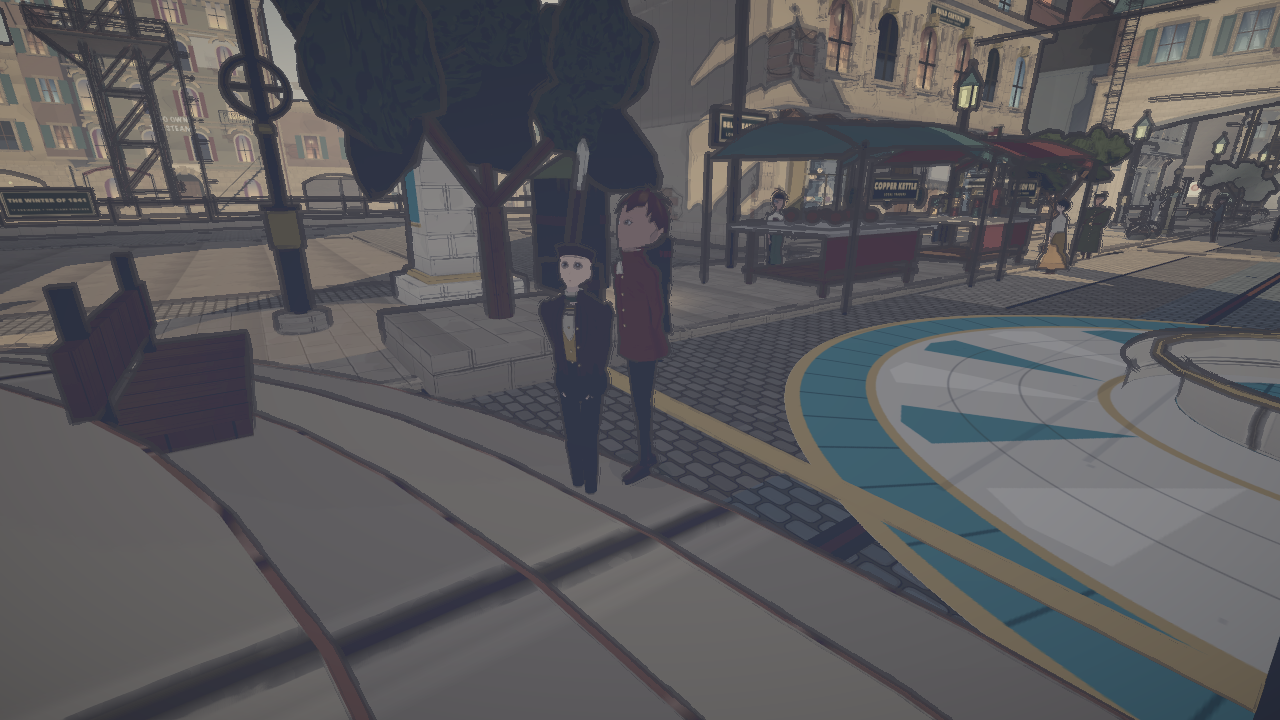
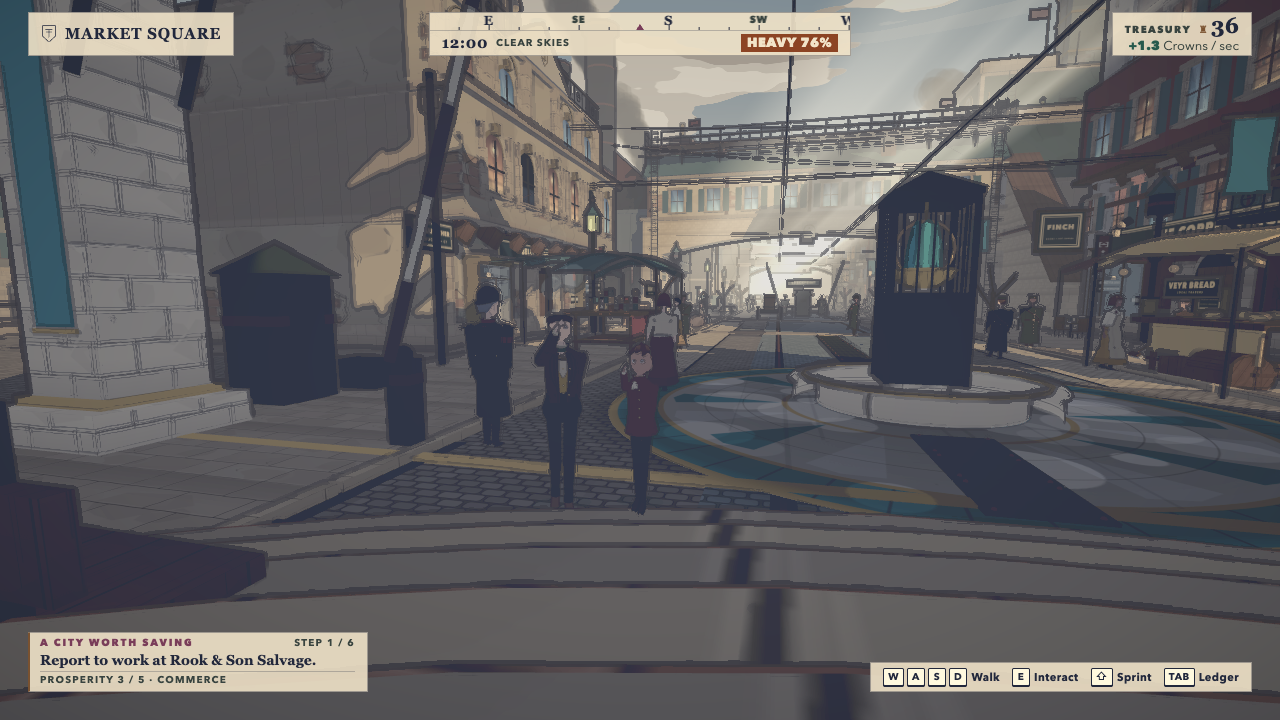
People XVI: the child is a child's size again — the child cast owns its scale in the figure builder (.72 times its stature, the crown at about 1.36 m, an adult's chest to shoulder), the spawn site scales only an old-builder child, and a test holds the spawned child's crown between .6 and .8 of an ad

diff --git a/src/world/presentation.ts b/src/world/presentation.ts
@@ -3,6 +3,7 @@ import { Atlas, place, type Placed } from './sign-atlas';
 import { box,holed,cyl,sphere,torus,beam,gear,barrel,crate,sign,arch,bake,mats,seeded,illustrated,tree,bareTree,blossom,windowUnit,printed,windowGlass,asProp } from './assets';
 import { V,pipe,cable,crest,gauge,lampHead,railing,canopy,artMats,roof,pressureRing,wingedValve,bench,pressureStation,mailPost,fabricOf,poster,meterBox,labeledCrate,stencilBarrel,stove,workbench,cafeTable,anvil,pipeStack } from './art-kit';
 import { person as makePerson, PEOPLE, type Citizen } from './citizens';
+import { siteScale } from './people/figure';
 import type { Archetype } from './palette';
 import { animateLife, turnTaking, eased, type Activity } from './citizen-life';
 import { reducedMotion } from '../motion';
@@ -493,7 +494,7 @@ export class Presentation {
   addWorker(x:number,z:number,yaw:number,kind:Activity,o:{y?:number;role?:Archetype;minStage?:number;maxStage?:number;time?:'any'|'day'|'night';scale?:number;/** a named story character (people/look.ts): takes effect under the new builder */look?:string;partner?:number;path?:[number,number,number];tool?:string;when?:()=>boolean;essential?:boolean;mask?:boolean}={}) {
     if(kind==='sit'&&o.tool==='mug')kind='eat';// whoever sits with a mug drinks from it
     const role=o.role??(kind==='gauge'||kind==='valve'||kind==='clipboard'?'engineer':kind==='browse'||(z<0&&kind==='read')?'merchant':kind==='read'||kind==='watch'||kind==='lean'?'resident':'worker');
-    const child=o.scale!==undefined&&o.scale<.8,person=makePerson(mats.rust,this.workers.length+43,role,{mask:o.mask,look:o.look,child});const y=o.y!==undefined?o.y+.18:this.city.groundHeight(x,z);person.group.position.set(x,y,z);person.group.rotation.y=yaw;if(o.scale&&!(child&&PEOPLE.next))person.group.scale.multiplyScalar(o.scale);// the child cast has its own stature: it is not an adult scaled down
+    const child=o.scale!==undefined&&o.scale<.8,person=makePerson(mats.rust,this.workers.length+43,role,{mask:o.mask,look:o.look,child});const y=o.y!==undefined?o.y+.18:this.city.groundHeight(x,z);person.group.position.set(x,y,z);person.group.rotation.y=yaw;person.group.scale.multiplyScalar(siteScale(o.scale,child,PEOPLE.next));// the old builder's child is an adult scaled down here; the new child cast owns its size
     this.root.add(person.group);
     // Held things sit in the right hand's grip socket, authored grip-first: the handle runs through
     // the fist along z and the rest hangs off it (figure-construction: arms-hands). Crates are

diff --git a/src/world/people/figure.ts b/src/world/people/figure.ts
@@ -1,6 +1,6 @@
 import * as T from 'three';
 import { loft, sweep, place, plate, offset, ringAt, surface, onFace, type Ring, type SweepPt } from './loft';
-import { dimsOf, ribcage, pelvis as pelvisRings, neck as neckRings, upperArm, forearm, thigh as thighRings, shin as shinRings, ring, RIG, type Dims } from './body';
+import { dimsOf, CHILD_SCALE, ribcage, pelvis as pelvisRings, neck as neckRings, upperArm, forearm, thigh as thighRings, shin as shinRings, ring, RIG, type Dims } from './body';
 import { paletteOf, type CastId, type Look } from './look';
 import { skull, ear, facialOf, skullRings, CHIN_TO_PIVOT } from './head';
 import { hairOf } from './hair';
@@ -23,6 +23,11 @@ export interface FigureOpts { solo?: boolean; mask?: boolean; /** dev: no hair, 
 
 /** Every cast is built: ten and the two of the Ordinance from wardrobe.ts, and the labourer and the row coat in the inline branch below. */
 export const BUILT: readonly CastId[] = ['labourer', 'rowCoat', ...WARDROBE];
+
+/** The switch (People XIV) as pure functions, used by citizens.ts and the spawn sites: the new builder unless the page's query asks for `people=old`; and the scale a spawn site applies,
+ *  which is never a second one for a child of the new builder (that figure owns its size, `CHILD_SCALE`). */
+export const peopleNext = (search: string) => new URLSearchParams(search).get('people') !== 'old';
+export const siteScale = (scale: number | undefined, child: boolean, next: boolean) => scale && !(child && next) ? scale : 1;
 
 const LIFT = .01;
 
@@ -199,7 +204,7 @@ export function buildFigure(look: Look, opts: FigureOpts, kit: Kit) {
   kit.bake(worn); kit.bake(finery);
   // the old rig lowers everything the body carries by .14 (animateLife is solved against it)
   body.position.y -= .14; pelvisG.position.y -= .14; for (const l of legs) l.position.y -= .14;
-  group.scale.setScalar(look.stature);
+  group.scale.setScalar(look.stature * (look.family === 'child' ? CHILD_SCALE : 1)); // the child owns its size (body.ts)
   group.traverse(o => { if (o instanceof T.Mesh) o.castShadow = false; });
   return { group, body, pelvis: pelvisG, legs, knees, ankles, arms, elbows, grips, head, tails, hem: hem.children.length ? hem : undefined, skirt, swing, scarf, worn, finery, face, faceMat };
 }

diff --git a/tests/stature.test.ts b/tests/stature.test.ts
@@ -1,0 +1,30 @@
+import { test } from 'node:test';
+import assert from 'node:assert/strict';
+import * as T from 'three';
+import { buildFigure, siteScale, type Kit } from '../src/world/people/figure.ts';
+import { resolveLook, type Look } from '../src/world/people/look.ts';
+
+const plain = () => new T.MeshBasicMaterial();
+const kit = (): Kit => ({ cloth: plain, plain, skin: [plain(), plain(), plain()], face: plain, bake: g => g, contact: new T.Mesh(new T.CircleGeometry(.28, 8), plain()) });
+/** The crown above the sole of a figure as the game spawns it (the spawn site's scale included), with no hair or hat: the top of its world bounding box. */
+function crown(look: Look, scale: number | undefined, child: boolean) {
+  const f = buildFigure(look, { solo: true, bare: true }, kit());
+  f.group.scale.multiplyScalar(siteScale(scale, child, true)); f.group.updateMatrixWorld(true);
+  const sole = Math.min(...f.ankles.map(a => new T.Box3().setFromObject(a).min.y));
+  return new T.Box3().setFromObject(f.group).max.y - sole;
+}
+
+test('a child stands at an adult\'s chest to shoulder: the crown, as spawned, is between .6 and .8 of an adult\'s', () => {
+  for (const seed of [0, 3, 11]) {
+    const adult = crown(resolveLook(seed, 'resident', { cast: 'rowCoat', family: 'standard', frame: 'broad' }), undefined, false);
+    const child = crown(resolveLook(seed, 'resident', { cast: 'child', family: 'child', frame: 'narrow' }), .72, true);
+    assert.ok(child < .8 * adult && child > .6 * adult, `seed ${seed}: child crown ${child.toFixed(3)} m against an adult's ${adult.toFixed(3)} m`);
+  }
+});
+
+test('the spawn site scales an old-builder child and never scales a new-builder child a second time', () => {
+  assert.equal(siteScale(.72, true, false), .72);
+  assert.equal(siteScale(.72, true, true), 1);
+  assert.equal(siteScale(undefined, false, true), 1);
+  assert.equal(siteScale(1.1, false, true), 1.1);
+});

diff --git a/src/world/people/body.ts b/src/world/people/body.ts
@@ -24,7 +24,9 @@ const sturdy: Dims = { h: .295, chin: 1.616, shX: .258, rSh: .062, chestW: .38, 
   armW: .11, elbowR: .045, foreW: .098, wristW: .058, hipX: .096, hipR: .082, thighW: .17, kneeR: .062, calfW: .125, calfBack: .02, ankleW: .075, hand: .2, shoe: .3, shoeW: .1 };
 
 /** The child (Book 3): its own authored family at about 5.5 heads, not a scaled adult. On the adult rig (joints are not moved) the head is larger, the neck short, the shoulders, chest and limbs narrow,
- *  the belly a little forward, the hands and feet small; the group is then scaled to about .72 by the spawn sites, which is what makes it a child's size (the crown stands at 1.885 on the rig). */
+ *  the belly a little forward, the hands and feet small. The crown stands at 1.885 on the rig, an adult's height; the figure builder then scales the whole child by `CHILD_SCALE` (with its stature),
+ *  which is what makes it a child's size: the crown at about 1.36 m, at an adult's chest to shoulder. Spawn sites never scale a child of the new builder. */
+export const CHILD_SCALE = .72;
 const child: Dims = { h: .335, chin: 1.55, shX: .165, rSh: .04, chestW: .25, waistW: .245, hipW: .27, chestD: .175, waistD: .165, hipD: .17, belly: .02, slope: .07, neckW: .092, neckD: .085, neckLean: .12, headFwd: .01,
   armW: .062, elbowR: .028, foreW: .056, wristW: .037, hipX: .07, hipR: .052, thighW: .108, kneeR: .04, calfW: .08, calfBack: .01, ankleW: .05, hand: .15, shoe: .22, shoeW: .075 };
 

diff --git a/TERRA_CHARACTER_BOOK.md b/TERRA_CHARACTER_BOOK.md
@@ -157,7 +157,9 @@ What separates the families beyond width:
 more bend at the knee, shorter stride.
 
 **Children** are their own authored family at about 5½ heads with a narrow frame. A child is never
-an adult scaled down.
+an adult scaled down: its proportions are its own, built on the adult rig, and the builder then
+sets the whole figure at .72 (times its stature), so the crown stands at about 1.36 m, at an
+adult's chest to shoulder. The child owns that size; a spawn site never scales it again.
 
 ---
 
